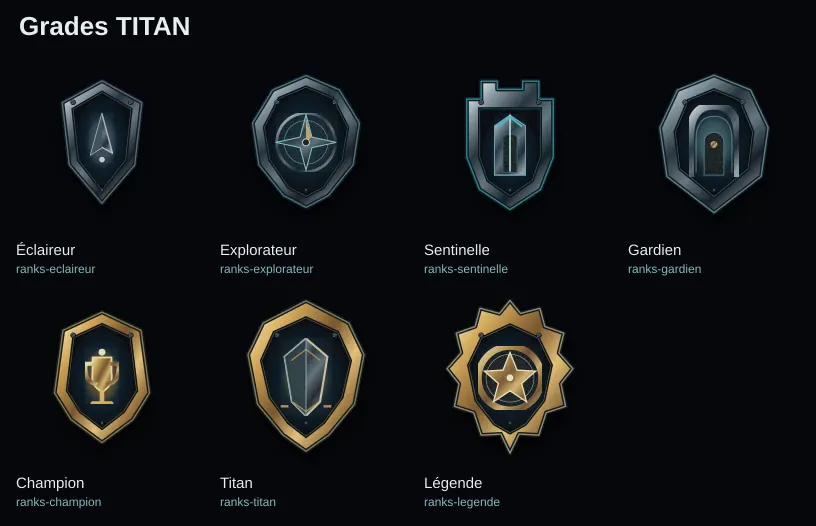
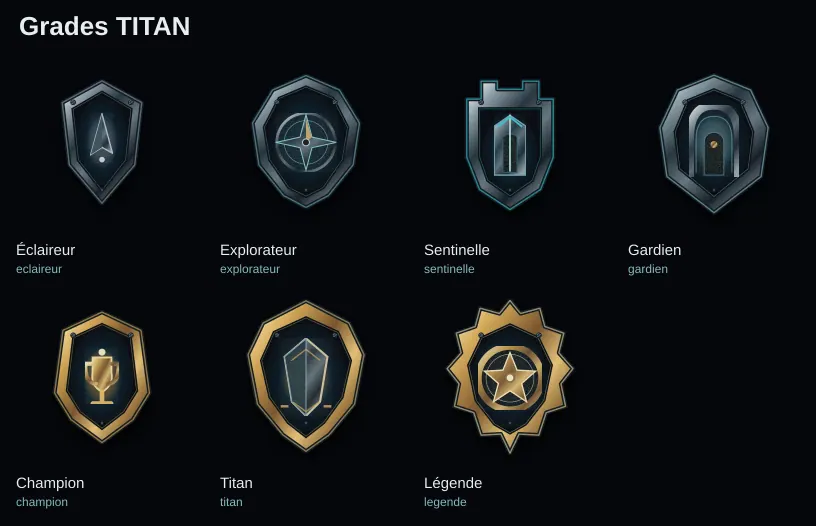
design(titan): exports and review gallery [skip art]

diff --git a/design/titan-visual-library/global-v2/preview/GALLERY.md b/design/titan-visual-library/global-v2/preview/GALLERY.md
@@ -8,13 +8,13 @@ Originals vectoriels: 58 | Retouches des visuels existants: 15 | PNG: 73 | WebP:
 
 ![Contact sheet ranks](./contact-ranks.webp)
 
-- [ranks-eclaireur](../proposed/masters/ranks/eclaireur.svg) — Éclaireur — **proposed** — [export](../proposed/exports/ranks/eclaireur-512.png) [export](../proposed/exports/ranks/eclaireur-256.webp) [export](../proposed/exports/ranks/eclaireur-96.webp)
-- [ranks-explorateur](../proposed/masters/ranks/explorateur.svg) — Explorateur — **proposed** — [export](../proposed/exports/ranks/explorateur-512.png) [export](../proposed/exports/ranks/explorateur-256.webp) [export](../proposed/exports/ranks/explorateur-96.webp)
-- [ranks-sentinelle](../proposed/masters/ranks/sentinelle.svg) — Sentinelle — **proposed** — [export](../proposed/exports/ranks/sentinelle-512.png) [export](../proposed/exports/ranks/sentinelle-256.webp) [export](../proposed/exports/ranks/sentinelle-96.webp)
-- [ranks-gardien](../proposed/masters/ranks/gardien.svg) — Gardien — **proposed** — [export](../proposed/exports/ranks/gardien-512.png) [export](../proposed/exports/ranks/gardien-256.webp) [export](../proposed/exports/ranks/gardien-96.webp)
-- [ranks-champion](../proposed/masters/ranks/champion.svg) — Champion — **proposed** — [export](../proposed/exports/ranks/champion-512.png) [export](../proposed/exports/ranks/champion-256.webp) [export](../proposed/exports/ranks/champion-96.webp)
-- [ranks-titan](../proposed/masters/ranks/titan.svg) — Titan — **proposed** — [export](../proposed/exports/ranks/titan-512.png) [export](../proposed/exports/ranks/titan-256.webp) [export](../proposed/exports/ranks/titan-96.webp)
-- [ranks-legende](../proposed/masters/ranks/legende.svg) — Légende — **proposed** — [export](../proposed/exports/ranks/legende-512.png) [export](../proposed/exports/ranks/legende-256.webp) [export](../proposed/exports/ranks/legende-96.webp)
+- [eclaireur](../proposed/masters/ranks/eclaireur.svg) — Éclaireur — **proposed** — [export](../proposed/exports/ranks/eclaireur-512.png) [export](../proposed/exports/ranks/eclaireur-256.webp) [export](../proposed/exports/ranks/eclaireur-96.webp)
+- [explorateur](../proposed/masters/ranks/explorateur.svg) — Explorateur — **proposed** — [export](../proposed/exports/ranks/explorateur-512.png) [export](../proposed/exports/ranks/explorateur-256.webp) [export](../proposed/exports/ranks/explorateur-96.webp)
+- [sentinelle](../proposed/masters/ranks/sentinelle.svg) — Sentinelle — **proposed** — [export](../proposed/exports/ranks/sentinelle-512.png) [export](../proposed/exports/ranks/sentinelle-256.webp) [export](../proposed/exports/ranks/sentinelle-96.webp)
+- [gardien](../proposed/masters/ranks/gardien.svg) — Gardien — **proposed** — [export](../proposed/exports/ranks/gardien-512.png) [export](../proposed/exports/ranks/gardien-256.webp) [export](../proposed/exports/ranks/gardien-96.webp)
+- [champion](../proposed/masters/ranks/champion.svg) — Champion — **proposed** — [export](../proposed/exports/ranks/champion-512.png) [export](../proposed/exports/ranks/champion-256.webp) [export](../proposed/exports/ranks/champion-96.webp)
+- [titan](../proposed/masters/ranks/titan.svg) — Titan — **proposed** — [export](../proposed/exports/ranks/titan-512.png) [export](../proposed/exports/ranks/titan-256.webp) [export](../proposed/exports/ranks/titan-96.webp)
+- [legende](../proposed/masters/ranks/legende.svg) — Légende — **proposed** — [export](../proposed/exports/ranks/legende-512.png) [export](../proposed/exports/ranks/legende-256.webp) [export](../proposed/exports/ranks/legende-96.webp)
 
 ## Paliers intermediaires
 
